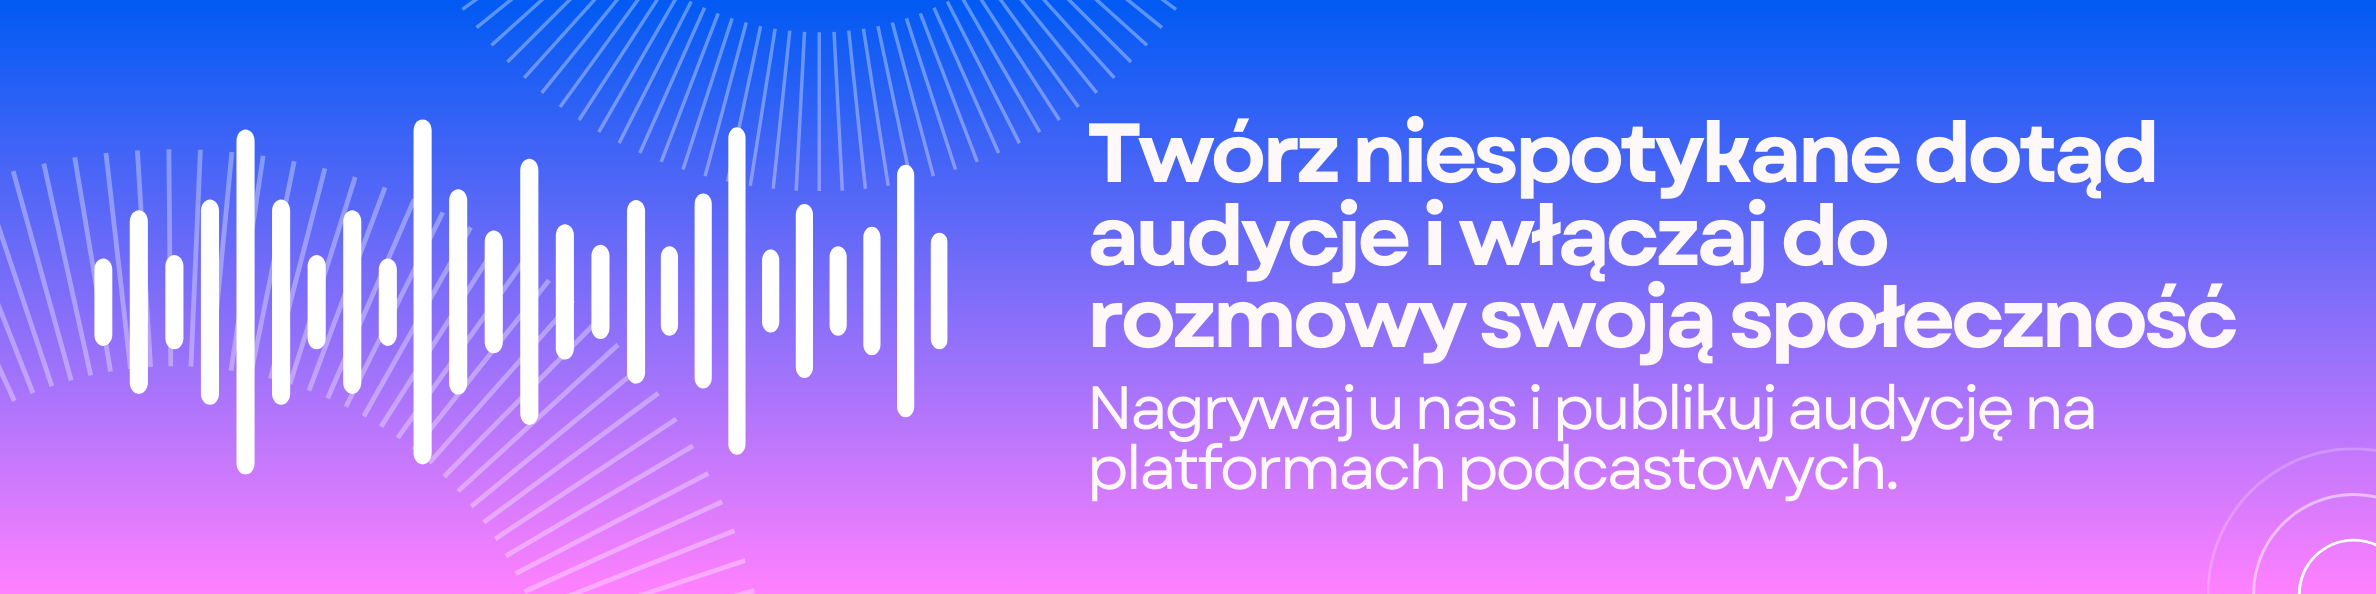
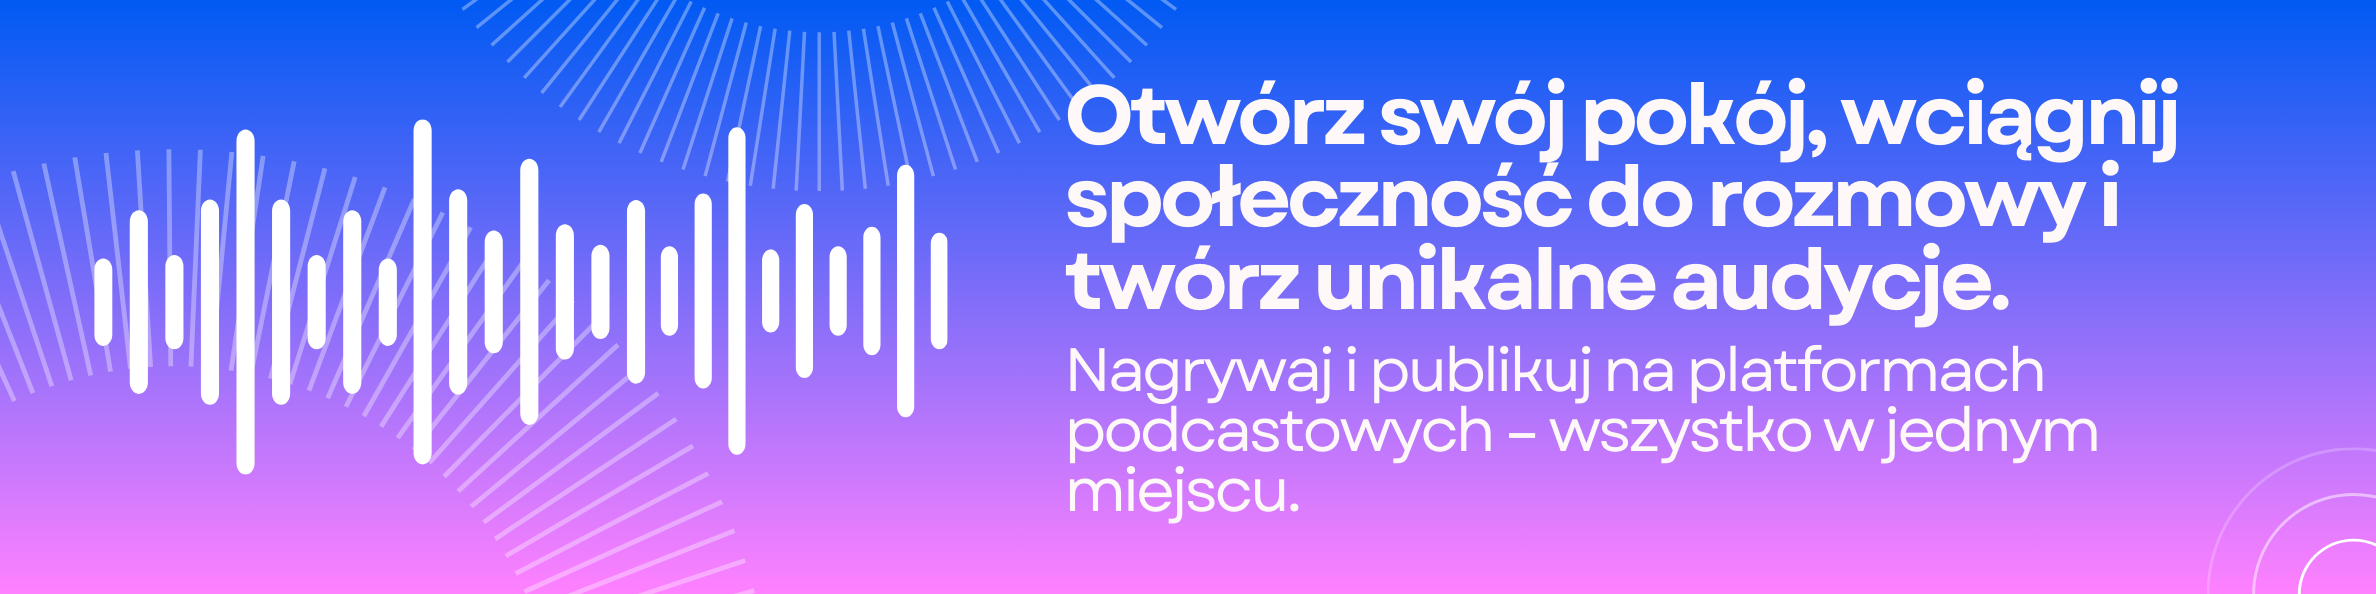
fixes

Changed region(s): [[0.436, 0.1212, 0.9655, 0.8788]]

diff --git a/app/javascript/packs/talks.jsx b/app/javascript/packs/talks.jsx
@@ -1,7 +1,6 @@
 import { h, render, Fragment } from 'preact';
 import { closeWindowModal, showWindowModal } from '@utilities/showModal';
 import { useState, useEffect } from 'preact/hooks';
-import { Spinner } from '@crayons/Spinner/Spinner';
 
 const Item = ({ item, children, currentUserId }) => {
   const [isMenuOpen, setIsMenuOpen] = useState(false);
@@ -32,7 +31,7 @@ const Item = ({ item, children, currentUserId }) => {
     if (adaptedItem.status === 'started') {
       const updateDuration = () => {
         const now = new Date();
-        const diff = now - adaptedItem.publishedDate;
+        const diff = Math.max(0, now - adaptedItem.publishedDate);
         const minutes = Math.floor(diff / 60000);
         const seconds = Math.floor((diff % 60000) / 1000);
         setDuration(`${minutes}:${seconds.toString().padStart(2, '0')}`);
@@ -52,7 +51,7 @@ const Item = ({ item, children, currentUserId }) => {
   };
 
   const handleDelete = async () => {
-    if (confirm('Czy na pewno chcesz usunąć tę audycję?')) {
+    if (confirm('Czy na pewno chcesz usunąć?')) {
       try {
         const response = await fetch(`/talks/${adaptedItem.id}`, {
           method: 'DELETE',
@@ -65,7 +64,7 @@ const Item = ({ item, children, currentUserId }) => {
         if (response.ok) {
           window.location.reload();
         } else {
-          alert('Nie udało się usunąć audycji...');
+          alert('Nie udało się usunąć...');
         }
       } catch (error) {
         console.error(error);
@@ -152,14 +151,14 @@ const Item = ({ item, children, currentUserId }) => {
                 </button>
               )}
               <a href="https://3000-onibeztabu-forem-rulnqudx0es.ws-eu117.gitpod.io/report-abuse" className="crayons-link crayons-link--block w-100">
-                Zgłoś audycję
+                Zgłoś
               </a>
               {currentUserId === item.user.id && (
                 <button
                   onClick={handleDelete}
                   className="crayons-link crayons-link--block w-100 color-accent-danger border-0 bg-transparent"
                 >
-                  Usuń audycję
+                  Usuń
                 </button>
               )}
             </div>
@@ -234,7 +233,7 @@ const CreateTalkButton = ({ isDisabled, currentUserId, adminOnlyCreationDescript
     showWindowModal({
       document: window.parent.document,
       modalContent: modalContentElement,
-      title: 'Utwórz nową audycję',
+      title: 'Utwórz pokój',
       size: 'small',
       onOpen: () => {
         const modalForm = window.parent.document.querySelector('#window-modal form');
@@ -257,17 +256,17 @@ const CreateTalkButton = ({ isDisabled, currentUserId, adminOnlyCreationDescript
         className="c-btn c-btn--primary whitespace-nowrap w-100"
         disabled={isDisabled || (!isAdmin && adminOnlyCreationDescription)}
       >
-        Rozpocznij audycję
+        Utwórz pokój
       </button>
       <p className="fs-s color-base-60 align-center m:align-left mt-2" >
-        Dziel się wiedzą na żywo i buduj społeczność wokół swoich zainteresowań
+        Inspiruj rozmowy i twórz społeczność wokół tego, co Cię pasjonuje.
       </p>
     </div>
    
   );
 };
 
-const JoinTalkButton = ({ channelId, userId, isDisabled, currentUserId }) => {
+const JoinTalkButton = ({ channelId, userId, isDisabled, currentUserId, children }) => {
   const handleJoin = async () => {
     const url = new URL(window.location.href);
     url.searchParams.set('activeTalk', channelId);
@@ -280,7 +279,7 @@ const JoinTalkButton = ({ channelId, userId, isDisabled, currentUserId }) => {
       className={`c-btn c-btn--secondary`}
       disabled={isDisabled}
     >
-      {currentUserId === userId ? 'Wejdź jako host' : 'Wejdź'}
+      {children || (currentUserId === userId ? 'Wejdź jako host' : 'Wejdź')}
     </button>
   );
 };
@@ -348,7 +347,16 @@ const TalksList = ({ activeTalkId, currentUserId, allow_anonymous_listening_desc
               userId={talk.user.id} 
               isDisabled={!!activeTalkId || (!currentUserId && !allow_anonymous_listening_description)}
               currentUserId={currentUserId}
-            />
+            >
+              {talk.scheduled_channel_id && (
+                <JoinTalkButton
+                  channelId={talk.scheduled_channel_id} 
+                  userId={talk.user.id}
+                  isDisabled={false}
+                  currentUserId={currentUserId}
+                />
+              )}
+            </JoinTalkButton>
           </Item>
         ))
       )}
@@ -407,7 +415,7 @@ const ScheduledTalksList = ({ currentUserId }) => {
   return (
     <Fragment>
       <div className="pt-2 flex justify-center">
-        <strong>Nadchodzące audycje</strong>
+        <strong>Nadchodzące</strong>
       </div>
       {scheduledTalks.length > 0 ? (
         scheduledTalks.map((talk) => (
@@ -418,14 +426,16 @@ const ScheduledTalksList = ({ currentUserId }) => {
                 userId={talk.user.id}
                 isDisabled={false}
                 currentUserId={currentUserId}
-              />
+              >
+                Rozpocznij 
+              </JoinTalkButton>
             )}
           </Item>
         ))
       ) : (
         <div className="flex items-center justify-center min-h-[200px]">
           <div className="text-center p-2 text-base text-gray-600">
-            Brak zaplanowanych audycji
+            Brak planowanych 
           </div>
         </div>
       )}
